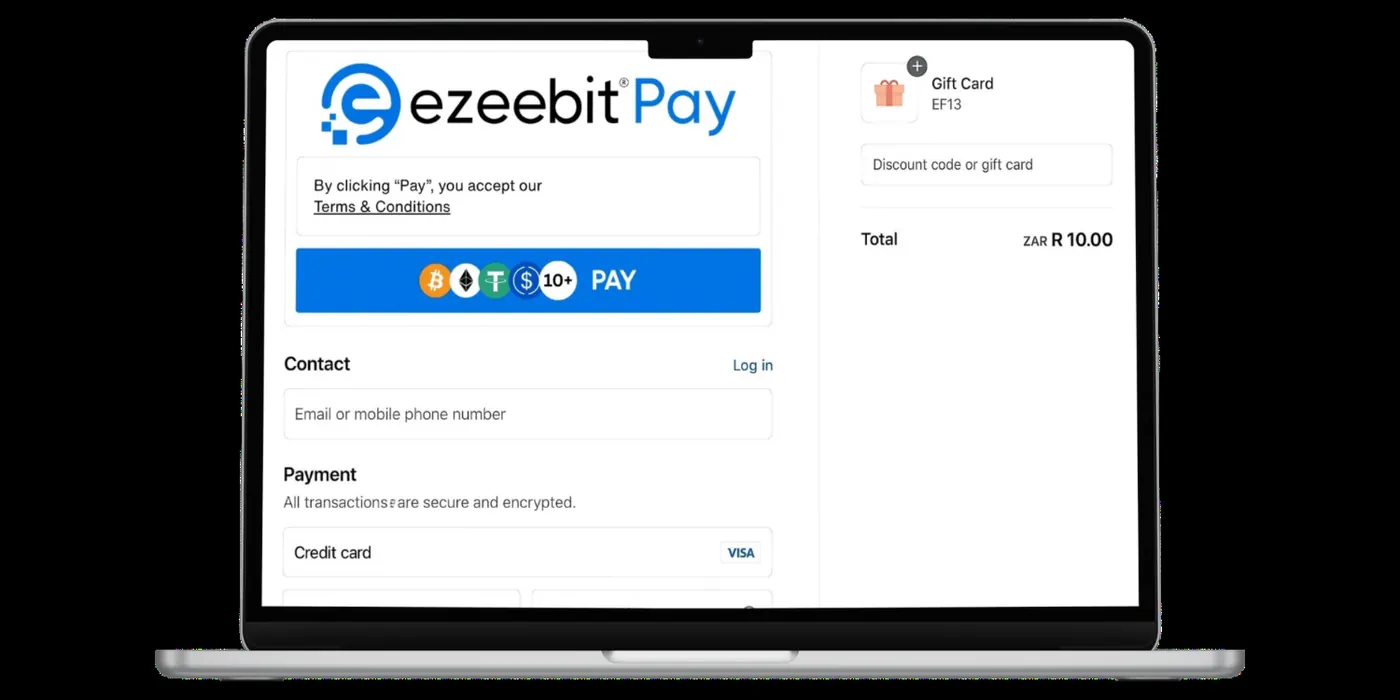
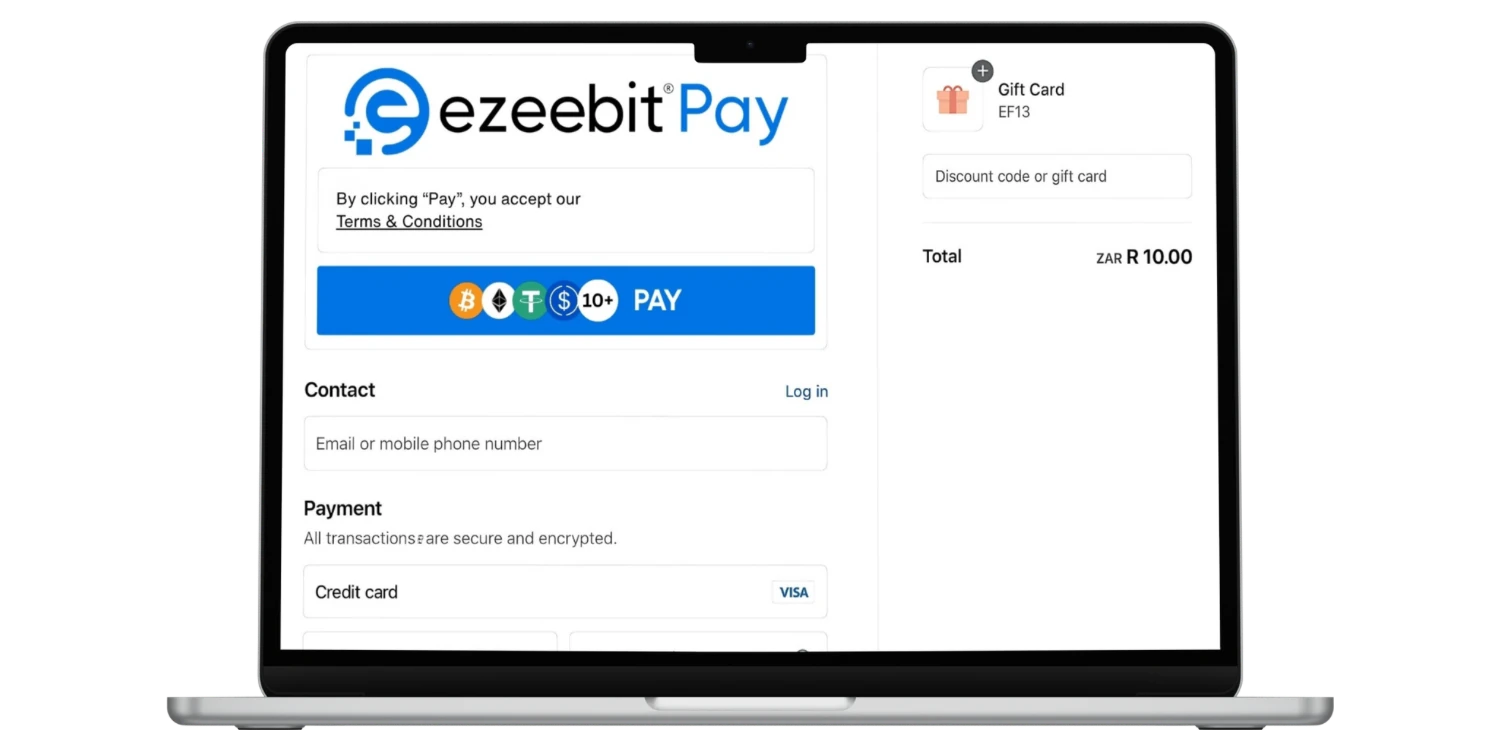
Restore entrance animations and point broken images at WebP.
Pre-rendered HTML stays visible for clients that do not run JavaScript. A real browser is marked before first paint, then the hero and scroll fades play after a clean hydration. About, Online, the blog, and Platforms now use the WebP files, including a transparent checkout image at the same crop.

diff --git a/src/entry-server.tsx b/src/entry-server.tsx
@@ -1,71 +1,19 @@
 import { renderToString } from 'react-dom/server'
 import { StaticRouter } from 'react-router-dom/server'
 import { HelmetProvider } from 'react-helmet-async'
-import { Routes, Route } from 'react-router-dom'
-import Header from './components/Header'
-import Footer from './components/Footer'
-
-// Eagerly import all pages so Suspense fallbacks don't swallow content during SSR
-import Home from './pages/Home'
-import InStore from './pages/InStore'
-import Online from './pages/Online'
-import Payouts from './pages/Payouts'
-import Platforms from './pages/Platforms'
-import Wallets from './pages/Wallets'
-import OTC from './pages/OTC'
-import Pricing from './pages/Pricing'
-import Developers from './pages/Developers'
-import Resources from './pages/Resources'
-import About from './pages/About'
-import FAQ from './pages/FAQ'
-import Legal from './pages/Legal'
-import Blog from './pages/Blog'
-import UserManual from './pages/UserManual'
-import SignUp from './pages/SignUp'
-import Contact from './pages/Contact'
-import BlogPost from './pages/BlogPost'
-import EzeebitResources from './pages/EzeebitResources'
-import WhereToSpend from './pages/WhereToSpend'
-import StoreDetail from './pages/StoreDetail'
-import Careers from './pages/Careers'
-import NotFound from './pages/NotFound'
+import { NextUIProvider } from '@nextui-org/react'
+import App from './App'
 
 export function render(url: string) {
   const helmetContext: Record<string, any> = {}
 
+  // Same providers and App tree as src/main.tsx, so hydrateRoot matches.
   const html = renderToString(
     <HelmetProvider context={helmetContext}>
       <StaticRouter location={url}>
-        <div className="min-h-screen bg-white">
-          <Header />
-          <Routes>
-            <Route path="/" element={<Home />} />
-            <Route path="/in-store" element={<InStore />} />
-            <Route path="/online" element={<Online />} />
-            <Route path="/platforms" element={<Platforms />} />
-            <Route path="/payouts" element={<Payouts />} />
-            <Route path="/wallets" element={<Wallets />} />
-            <Route path="/otc" element={<OTC />} />
-            <Route path="/pricing" element={<Pricing />} />
-            <Route path="/developers" element={<Developers />} />
-            <Route path="/resources" element={<Resources />} />
-            <Route path="/resources/about" element={<About />} />
-            <Route path="/resources/faq" element={<FAQ />} />
-            <Route path="/resources/legal" element={<Legal />} />
-            <Route path="/resources/blog" element={<Blog />} />
-            <Route path="/resources/user-manual" element={<UserManual />} />
-            <Route path="/blog/:slug" element={<BlogPost />} />
-            <Route path="/signup" element={<SignUp />} />
-            <Route path="/contact" element={<Contact />} />
-            <Route path="/ezeebit-resources" element={<EzeebitResources />} />
-            <Route path="/resources/where-to-spend" element={<WhereToSpend />} />
-            <Route path="/resources/stores/:slug" element={<StoreDetail />} />
-            <Route path="/careers" element={<Careers />} />
-            <Route path="/404" element={<NotFound />} />
-            <Route path="*" element={<NotFound />} />
-          </Routes>
-          <Footer />
-        </div>
+        <NextUIProvider>
+          <App />
+        </NextUIProvider>
       </StaticRouter>
     </HelmetProvider>
   )

diff --git a/src/App.tsx b/src/App.tsx
@@ -1,34 +1,31 @@
-import { Routes, Route } from 'react-router-dom'
+import { Routes, Route, useLocation } from 'react-router-dom'
 import { AnimatePresence } from 'framer-motion'
-import { useEffect, Suspense, lazy } from 'react'
-import { useLocation } from 'react-router-dom'
+import { useEffect } from 'react'
 import Header from './components/Header'
 import Footer from './components/Footer'
-import PageLoader from './components/PageLoader'
 import Home from './pages/Home'
-
-const InStore = lazy(() => import('./pages/InStore'))
-const Online = lazy(() => import('./pages/Online'))
-const OTC = lazy(() => import('./pages/OTC'))
-const Payouts = lazy(() => import('./pages/Payouts'))
-const Platforms = lazy(() => import('./pages/Platforms'))
-const Wallets = lazy(() => import('./pages/Wallets'))
-const Pricing = lazy(() => import('./pages/Pricing'))
-const Developers = lazy(() => import('./pages/Developers'))
-const Resources = lazy(() => import('./pages/Resources'))
-const About = lazy(() => import('./pages/About'))
-const FAQ = lazy(() => import('./pages/FAQ'))
-const Legal = lazy(() => import('./pages/Legal'))
-const Blog = lazy(() => import('./pages/Blog'))
-const UserManual = lazy(() => import('./pages/UserManual'))
-const SignUp = lazy(() => import('./pages/SignUp'))
-const Contact = lazy(() => import('./pages/Contact'))
-const BlogPost = lazy(() => import('./pages/BlogPost'))
-const EzeebitResources = lazy(() => import('./pages/EzeebitResources'))
-const WhereToSpend = lazy(() => import('./pages/WhereToSpend'))
-const StoreDetail = lazy(() => import('./pages/StoreDetail'))
-const Careers = lazy(() => import('./pages/Careers'))
-const NotFound = lazy(() => import('./pages/NotFound'))
+import InStore from './pages/InStore'
+import Online from './pages/Online'
+import OTC from './pages/OTC'
+import Payouts from './pages/Payouts'
+import Platforms from './pages/Platforms'
+import Wallets from './pages/Wallets'
+import Pricing from './pages/Pricing'
+import Developers from './pages/Developers'
+import Resources from './pages/Resources'
+import About from './pages/About'
+import FAQ from './pages/FAQ'
+import Legal from './pages/Legal'
+import Blog from './pages/Blog'
+import UserManual from './pages/UserManual'
+import SignUp from './pages/SignUp'
+import Contact from './pages/Contact'
+import BlogPost from './pages/BlogPost'
+import EzeebitResources from './pages/EzeebitResources'
+import WhereToSpend from './pages/WhereToSpend'
+import StoreDetail from './pages/StoreDetail'
+import Careers from './pages/Careers'
+import NotFound from './pages/NotFound'
 
 function ScrollToTop() {
   const { pathname, hash } = useLocation()
@@ -46,7 +43,6 @@ function App() {
       <Header />
       <ScrollToTop />
       <AnimatePresence mode="wait">
-        <Suspense fallback={<PageLoader />}>
           <Routes>
             <Route path="/" element={<Home />} />
             <Route path="/in-store" element={<InStore />} />
@@ -72,7 +68,6 @@ function App() {
             <Route path="/careers" element={<Careers />} />
             <Route path="*" element={<NotFound />} />
           </Routes>
-        </Suspense>
       </AnimatePresence>
       <Footer />
     </div>

diff --git a/src/lib/motion.tsx b/src/lib/motion.tsx
@@ -1,26 +1,59 @@
-import { forwardRef, useEffect, useState } from 'react'
+import { forwardRef, useEffect, useLayoutEffect, useState } from 'react'
 import { motion as fmMotion } from 'framer-motion'
 
+// useLayoutEffect warns during prerender. The server bundle never paints,
+// so the effect can be the plain one there; the browser bundle keeps the
+// layout effect so the fade starts before the first painted frame.
+const useIsomorphicLayoutEffect = typeof window === 'undefined' ? useEffect : useLayoutEffect
+
 /**
- * Entrance animations must not ship as opacity:0 in pre-rendered HTML.
- * Before the app has hydrated, motion components render in their final
- * visible state. After hydration, client-side route changes still animate.
+ * Pre-rendered HTML has to stay visible for crawlers that never run
+ * JavaScript. A real browser runs the inline script in index.html, which
+ * adds `js` to <html> before first paint, and the matching CSS hides
+ * [data-entrance] so there is no flash of the finished page.
+ *
+ * The first render (server and hydration) uses initial={false}, so the DOM
+ * matches and React hydrates cleanly. After hydration, entrance components
+ * remount with their real initial value and Framer Motion plays the same
+ * fade-in as an ordinary visit, including whileInView. Client-side route
+ * changes and menus mount after that, so they animate on their first render.
  */
 let appHydrated = false
 
-function useSafeInitial(initial: unknown) {
-  const [ready, setReady] = useState(appHydrated)
-  useEffect(() => {
-    appHydrated = true
-    setReady(true)
-  }, [])
-  return ready ? initial : false
+function isEntrance(initial: unknown): boolean {
+  if (initial == null || initial === false) return false
+  if (initial === 'hidden') return true
+  if (typeof initial !== 'object') return false
+  const value = initial as Record<string, unknown>
+  if (typeof value.opacity === 'number' && value.opacity < 1) return true
+  if ('x' in value || 'y' in value) return true
+  if (typeof value.scale === 'number' && value.scale < 1) return true
+  return false
 }
 
 function wrap(Component: any) {
   return forwardRef(function SafeMotion(props: any, ref) {
-    const initial = useSafeInitial(props.initial)
-    return <Component ref={ref} {...props} initial={initial} />
+    const entrance = isEntrance(props.initial)
+    const [phase, setPhase] = useState<'ssr' | 'live'>(() =>
+      entrance && !appHydrated ? 'ssr' : 'live'
+    )
+
+    useIsomorphicLayoutEffect(() => {
+      appHydrated = true
+      if (phase === 'ssr') setPhase('live')
+    }, [phase])
+
+    // A new key after hydration remounts the motion element so Framer Motion
+    // reads `initial` on mount. Changing the prop on an existing instance does not.
+    if (!entrance) {
+      return <Component ref={ref} {...props} />
+    }
+
+    if (phase === 'live') {
+      return <Component ref={ref} {...props} key="live" />
+    }
+
+    return <Component ref={ref} {...props} key="ssr" initial={false} data-entrance="" />
   })
 }
 

diff --git a/src/pages/Blog.tsx b/src/pages/Blog.tsx
@@ -37,7 +37,7 @@ const Blog = () => {
       readTime: '6 min read',
       category: 'Product',
       categoryId: 'product',
-      image: '/sunbet-launch-cover@2x.png',
+      image: '/blog/sunbet-launch-cover.webp',
       views: '0',
       featured: false
     },
@@ -50,7 +50,7 @@ const Blog = () => {
       readTime: '5 min read',
       category: 'Product',
       categoryId: 'product',
-      image: '/checkout-launch-cover@2x.png',
+      image: '/blog/checkout-launch-cover.webp',
       views: '0',
       featured: false,
       hero: true
@@ -64,7 +64,7 @@ const Blog = () => {
       readTime: '1 min read',
       category: 'Policy & Regulation',
       categoryId: 'policy',
-      image: '/cfm-regulation-blog-cover copy.png',
+      image: '/blog/cfm-regulation-cover.webp',
       views: '0',
       featured: false
     },

diff --git a/src/pages/Online.tsx b/src/pages/Online.tsx
@@ -163,7 +163,7 @@ const Online = () => {
                       </div>
                     </div>
                     <img
-                      src="/online-checkout.png"
+                      src="/online-checkout.webp"
                       alt={`${platform.name} integration`}
                       className="w-full max-w-sm mx-auto my-4 lg:hidden"
                     />
@@ -210,7 +210,7 @@ const Online = () => {
                     </div>
                   </div>
                   <img
-                    src="/online-checkout.png"
+                    src="/online-checkout.webp"
                     alt={`${platform.name} integration`}
                     className="hidden lg:block lg:w-[120%] lg:max-w-none lg:-ml-16"
                   />

diff --git a/src/pages/About.tsx b/src/pages/About.tsx
@@ -19,19 +19,19 @@ const About = () => {
     {
       name: "Daniel Katz",
       role: "Chief Executive Officer",
-      image: "/Daniel_pic - no bg.png",
+      image: "/team/daniel-katz.webp",
       linkedin: "https://www.linkedin.com/in/daniel-katz-090464145"
     },
     {
       name: "Jonathan Katz",
       role: "Chief Operating Officer",
-      image: "/Jonathan Katz - no bg.png",
+      image: "/team/jonathan-katz.webp",
       linkedin: "https://www.linkedin.com/in/jonathan-katz-b311b3225"
     },
     {
       name: "David Katz",
       role: "Head of Financial Operations",
-      image: "/David_pic - no bg.png",
+      image: "/team/david-katz.webp",
       linkedin: "https://www.linkedin.com/in/david-katz-227a00265"
     }
   ]

diff --git a/index.html b/index.html
@@ -2,6 +2,17 @@
 <html lang="en-ZA">
   <head>
     <meta charset="UTF-8" />
+    <!--
+      Marks a real browser before first paint. Pre-rendered HTML stays
+      visible for clients that do not run this script. The class lets
+      entrance elements start hidden only when JavaScript will animate them.
+    -->
+    <script>
+      document.documentElement.classList.add('js')
+    </script>
+    <style>
+      html.js [data-entrance]{opacity:0 !important}
+    </style>
     <!-- Google tag (gtag.js) -->
     <script async src="https://www.googletagmanager.com/gtag/js?id=G-L4585555QD"></script>
     <script>

diff --git a/src/pages/Platforms.tsx b/src/pages/Platforms.tsx
@@ -17,7 +17,7 @@ const caseStudies = [
   {
     name: 'Sunbet',
     logo: '/sunbet-logo.png',
-    image: '/sunbet-launch-cover@2x.png',
+    image: '/blog/sunbet-launch-cover.webp',
     sector: 'iGaming',
     summary: 'Sunbet, part of JSE-listed Sun International, is one of the first online gaming platforms in South Africa to accept crypto deposits. Players fund their accounts straight from the wallet or exchange their money already sits in.',
     points: [
